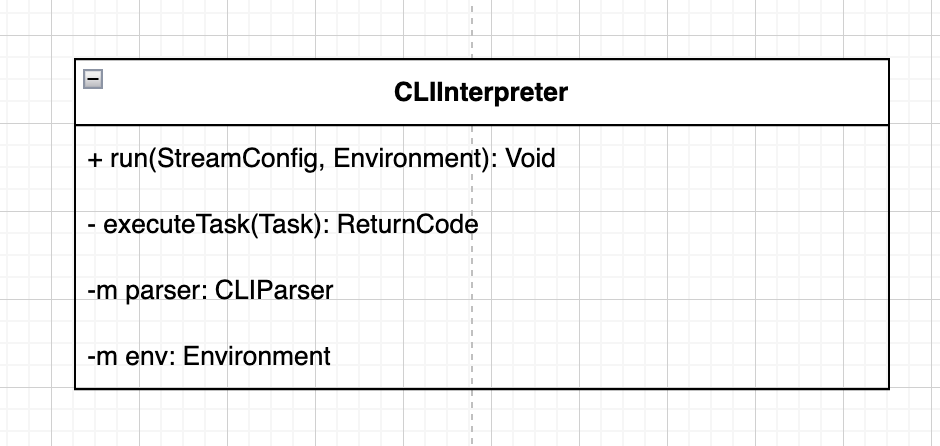
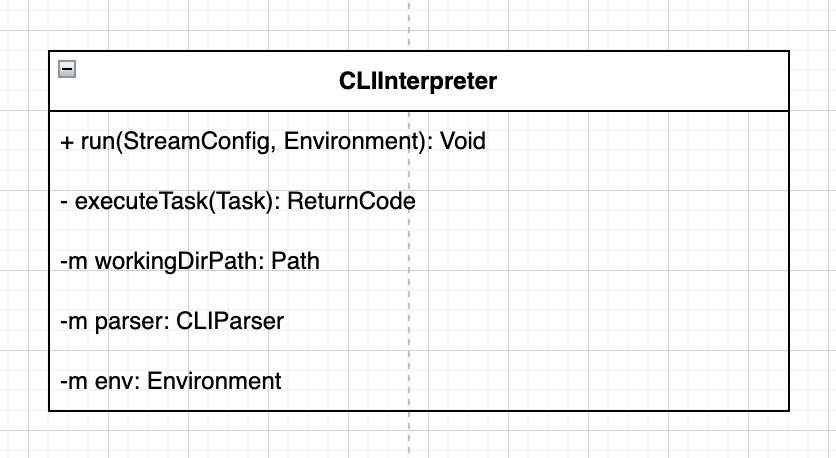
Add some fixes

diff --git a/docs/ARCHITECTURE.md b/docs/ARCHITECTURE.md
@@ -16,8 +16,6 @@
 
 Класс интерпретатора, получающий в аргументах исходный environment (переданный самой программе, реализующей CLI) и потоки, которые представляют собой stdin, stdout, stderr для интерпретатора. Метод `run` этого класса реализует бесконечный цикл, в котором парсится входной поток, запускаются комманды и происходит вывод в выходной поток и поток ошибок. Завершение цикла обработки происходит по обнаружению комманды `exit`, или терменировании процесса, в котором запущен CLI.
 
-**Тут я забыл добавить `workingDirectory` как поле. Оно тоже должно быть тут на самом деле.**
-
 <p align="center">
     <img src="../assets/readme/interpreter.png" width="500" alt="interpreter">
 </p>
@@ -78,14 +76,20 @@
 
 ### 4. `Argument`
 
-Абракция отвечающая за представление аргументов комманд. Глобально тут есть два имплементатора этого класса:
+Абракция отвечающая за представление аргументов комманд. Когда исходный ввод пользователя парсится и происходит создание обхектов комманд, тогда же конструируются и аргументы комманд, после чего сохраняются как их поля (в поле `args`, в случае если комманды их предусматривает).
+
+Глобально тут есть два имплементатора этого класса:
 - `DoubleQuotesArgument`: хранит строковое представление аргумента as-is, то есть не подставляет переменные окружения и экранирует спец. символы по типу `\n` и `\t`.
-- `SmartArgument`: этот тип аргументов применяет подстановку переменных из окружения и не экранирует спец. символы (его наследники это `SingleQuotesArgument` и `RegularArgument`).
+  - Экранизация спец. символов происходит сразу, как `DoubleQuotesArgument` был сконсруирован и кешируется в поле `str`.
+- `SmartArgument`: этот тип аргументов применяет подстановку переменных из окружения и не экранирует спец. символы (его наследники это `SingleQuotesArgument` и `NoQuotesArgument`).
+  - Подстановка переменных окружения происходит при попытке получить представление аргумента как строчки (в момент непосредственного выполнения комманды). Конкретно подстановка происходит при вызове метода `Argument::evaluateAsString(Environment)`, в который передается окружение. Из него будут браться значения для переменных окружения, и если какая-та переменная там отсутствует, то вместо нее подставится пустая строка.
+
+
+Для того, чтобы инстанциировать нужный тип аргумента из его строкового представления, предусмотрен статический метод `Argument::constructFromString(String)`. Он принимает строчку (то есть аргумент комманды, как он передан пользователем), внутри которого происходит анализ этой строчки и принимается решение о том, какой из аргументов сконструировать, либо выкинуть ошибку парсинга. 
 
 <p align="center">
     <img src="../assets/readme/argument.png" width="600" alt="arguments">
 </p>
-
 
 ### 5. Вспомогательные объекты
 
@@ -99,7 +103,7 @@
 </p>
 
 
-## Точка входа
+## Точка входа программы
 
 Точкой входа в программу является глобальная фунция `main`, она будет отвественна за:
 - инстанциирование `CLIInterpreter` и владение им
